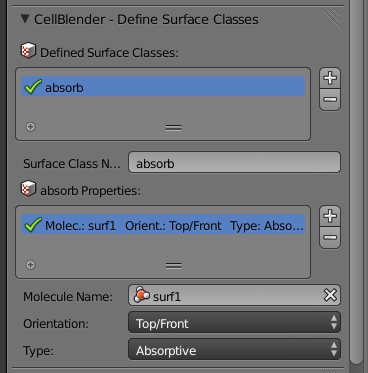
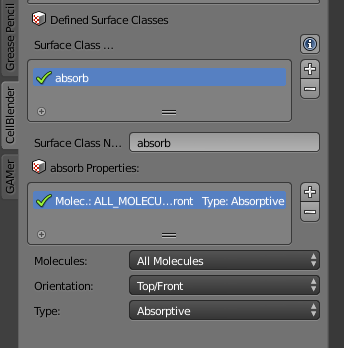
Update the surf_class_surf_mol tutorial.

diff --git a/surf_class_surf_mol.rst b/surf_class_surf_mol.rst
@@ -4,14 +4,6 @@
 Surface Classes and Surface Molecules
 *********************************************
 
-.. Git Repo SHA1 ID: 3520f8694d61c81424ff15ff9e7a432e42f0623f
-
-.. note::
-
-    The simulations and visualizations in this tutorial were generated using
-    Blender 2.70a and CellBlender 1.0. It may or may not work with other
-    versions.
-
 We have already discussed surface classes at length, but we haven't touched on
 how they can affect the diffusion of surface molecules. Their effects are
 manifested at the boundaries of the surface regions that they are applied to.
@@ -29,25 +21,20 @@ classes don't affect surface molecules, so we can ignore them in this context.
 Set Project Directory
 ---------------------------------------------
 
-Start Blender. Hit the **Scene** button in the **Properties Editor**. 
-
-.. image:: ./images/scene_button.png
-
-Let's save the file (and set the project directory) right now by hitting
-**Ctrl-s**, typing **~/mcell_tutorial/sc_sm** (or **C:\\mcell_tutorial\\sc_sm**
-on Windows) into the directory field, **sc_sm.blend** into the file name field,
-and hit the **Save As Blender File** button.
+After you start Blender, save the file (and set the project directory) by
+hitting **Ctrl-s**, typing **~/mcell_tutorial/sc_sm** (or
+**C:\\mcell_tutorial\\sc_sm** on Windows) into the directory field,
+**sc_sm.blend** into the file name field, and hit the **Save As Blender File**
+button.
 
 Creating and Assigning Surface Regions
 ---------------------------------------------
 
-With the default **Cube** selected, hit the **Object** button in the
-**Properties Editor**.
-
-.. image:: ./images/object_button.png
-
-Expand the **Define Surface Regions** panel. Hit **+** twice so that you have
-two new surface regions.
+* Hit the **Model Objects** button.
+* Hit the Cube button.
+* Hit the **+** button to add the cube to the **Model Objects** list.
+* Under the **Defined Surface Regions for Cube** panel, hit the **+** twice so
+  that you have two new surface regions.
 
 .. image:: ./images/surf_class_surf_mol/region_0_1.png
 
@@ -57,7 +44,7 @@ click on the second entry and change its name to **bottom**.
 .. image:: ./images/surf_class_surf_mol/bottom_top.png
 
 Move your cursor to the **3D View** window and hit **Tab** to switch into
-**Edit Mode**.  Hit **Ctrl-t** to triangulate the faces.
+**Edit Mode**.
 
 .. image:: ./images/triangulate.png
 
@@ -79,35 +66,12 @@ everything is deselected (Hit **a** until all the faces are gray). Then hold
 **Shift** and **right click** on the bottom faces, select **bottom** from the
 list of regions, and click **Assign**.
 
-
-Add Cube to Model Objects List
----------------------------------------------
-
-Hit the **Scene** button on the **Properties** Editor.
-
-.. image:: ./images/scene_button.png
-
-Expand the **Model Objects** panel. Hit the **+** button and **Cube** will
-appear in the list.
- 
-.. image:: ./images/surf_class_surf_mol/model_objects.png
-
-Set Simulation Parameters
----------------------------------------------
-
-Next, expand the **Model Initialization** panel. Make the following changes:
-
-* Change **Iterations** to **1000**.
-* Change **Time Step** to **1e-4**.
-
-.. image:: ./images/surf_class_surf_mol/model_init.png
-
 Define a Surface Molecule
 ---------------------------------------------
 
-Expand the **Define Molecules** panel and hit the **+** button.
-
-* Change the **Molecule Name** to **surf1**.
+* Hit the **Molecules** button.
+* Hit the **+** button.
+* Change the **Name** to **surf1**.
 * Change the **Molecule Type** to **Surface Molecule**.
 * Change the **Diffusion Constant** to **1e-6**.
 
@@ -116,8 +80,8 @@ Expand the **Define Molecules** panel and hit the **+** button.
 Define a Release Site
 ---------------------------------------------
 
-Expand the **Molecule Release/Placement** panel and hit the **+** button.
-
+* Hit the **Molecule Placement** button.
+* Hit the **+** button.
 * Change **Site Name** to **surf1_rel**.
 * Change **Molecule** to **surf1**.
 * Leave **Initial Orientation** set to **Top Front**.
@@ -132,15 +96,14 @@ Expand the **Molecule Release/Placement** panel and hit the **+** button.
 Add the Surface Class
 ---------------------------------------------
 
-Expand the **Define Surface Classes** panel. Then, hit the **+** button to
-create a new surface class called **Surface_Class**. Rename it to
-**absorb**.
-
-Hit the **+** button beside the empty **absorb Properties** list.
-
+* Hit the **Surface Classes** button.
+* Hit the **+** button to create a new surface class called **Surface_Class**.
+* Rename it to **absorb**.
+* Hit the **+** button beside the empty **absorb Properties** list.
+* Leave **Molecules** set to **All Molecules**.
 * Select **surf1** from the **Molecule Name** field.
-* Leave **Orientation** set to **Top/Front**.
-* Leave **Type** set to **Absorptive**.
+* Set **Orientation** set to **Top/Front**.
+* Set **Type** set to **Absorptive**.
 
 .. image:: ./images/surf_class_surf_mol/absorb.png
 
@@ -151,15 +114,16 @@ Repeat this process, except call the surface class **reflect** and change the
 
 .. _scsm_mod_surf_reg:
 
-Modify the Surface Regions
+Assign the Surface Classes
 ---------------------------------------------
 
 Now that we have created our surface class, we need to assign it to our mesh.
-Expand the **Modify Surface Regions** panel. Hit the **+** to begin modifying a
-surface region.
 
+* Hit the **Assign Surface Classes** button.
+* Hit the **+** to begin assigning a surface class.
 * In the **Surface Class Name** field, select **absorb**.
 * Under **Object Name**, select the newly created **Cube** object.
+* Change **Region Selection** to **Specified Region**.
 * For **Region Name**, select **top**.
 
 .. image:: ./images/surf_class_surf_mol/assign_absorb.png
@@ -187,12 +151,11 @@ middle section and **top** region will ultimately be destroyed.
 Run the Simulation and Visualize the Results
 ---------------------------------------------
 
-Select **Export All** under **Visualization Output Settings**.
+* Save the Blender file (**Ctrl-s**).
+* Hit the **Run Simulation** button*
+* Change the **Time Step** to **1e-4**
+* Lastly, hit the **Export & Run** button.
 
-Save the Blender file (**Ctrl-s**) and hit the **Run Simulation** button under
-the **Run Simulation** panel.
-
-Once the simulation has finished running, hit **Read Viz Data** under the
-**Visualize Simulation Results** panel. Hit **Alt-a** to play back the
-animation. You should notice the **surf1** molecules being destroyed by the
-absorptive surface boundary.
+Once the simulation has finished running, hit **Reload Visualization Data**.
+Hit **Alt-a** to play back the animation. You should notice the **surf1**
+molecules being destroyed by the absorptive surface boundary.
